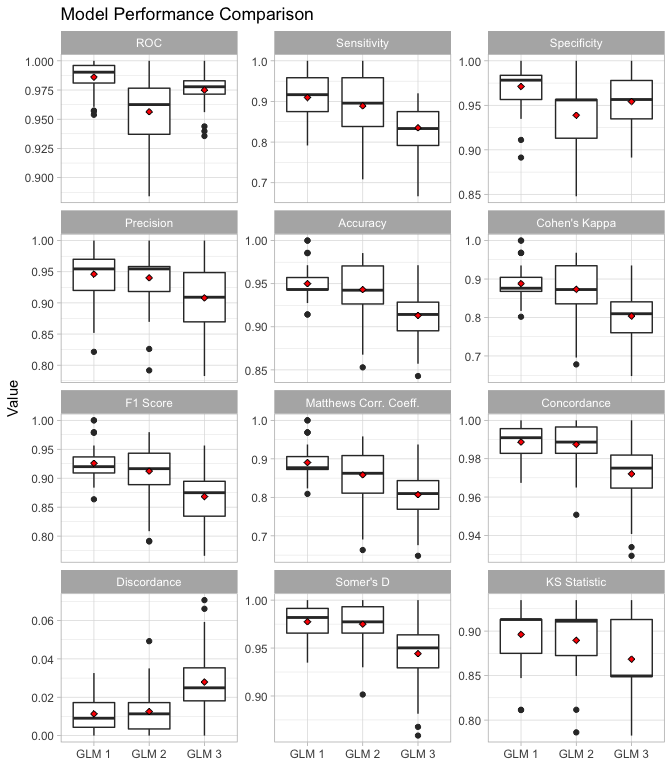
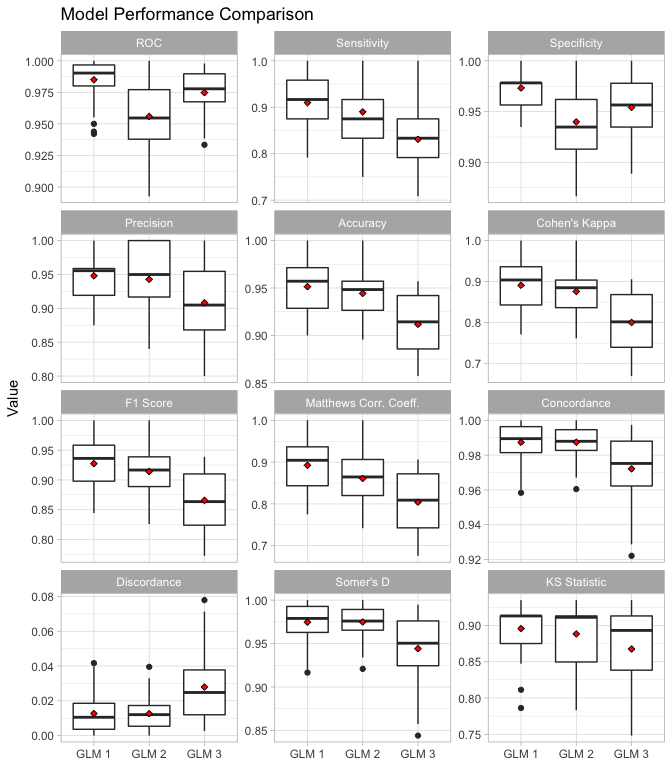
update README

diff --git a/README.md b/README.md
@@ -22,6 +22,8 @@ The two following sections demonstrate how to compute performance metrics for ca
 
 ### Binary Classification
 
+The performance metrics computed for binary classification are: ROC, Sensitivity, Specificity, Precision, Accuracy, Cohen's Kappa, F1 Score, Matthews Correlation Coefficient, Concordance, Discordance, Somer's D, and KS Statistic.
+
 ``` r
 library(MLtoolkit)
 library(recipes)
@@ -60,25 +62,25 @@ glm_fit_3 <- train(rec3, data = dat,
                    trControl = train_ctrl)
 ```
 
-The compute\_mod\_results() function works with a single caret model object and computes its performance results:
+The compute\_mod\_results() function works with a single caret model object and computes its performance metrics:
 
 ``` r
 compute_mod_results(glm_fit_1, "GLM 1") %>% head()
 #> # A tibble: 6 x 14
 #>   Model Resample   ROC Sensitivity Specificity Precision Accuracy
 #>   <chr> <chr>    <dbl>       <dbl>       <dbl>     <dbl>    <dbl>
-#> 1 GLM 1 Fold01.… 0.981       0.917       0.978     0.957    0.957
-#> 2 GLM 1 Fold01.… 0.996       0.875       0.978     0.955    0.943
-#> 3 GLM 1 Fold01.… 0.996       0.917       1         1        0.971
-#> 4 GLM 1 Fold01.… 1           1           1         1        1    
-#> 5 GLM 1 Fold02.… 1           0.792       1         1        0.928
-#> 6 GLM 1 Fold02.… 0.983       0.958       0.935     0.885    0.943
+#> 1 GLM 1 Fold01.… 0.998       0.917       1         1        0.971
+#> 2 GLM 1 Fold01.… 0.985       0.958       0.978     0.958    0.971
+#> 3 GLM 1 Fold01.… 0.955       0.875       0.935     0.875    0.914
+#> 4 GLM 1 Fold01.… 0.984       0.958       0.935     0.885    0.943
+#> 5 GLM 1 Fold02.… 0.989       0.917       0.956     0.917    0.942
+#> 6 GLM 1 Fold02.… 0.999       0.958       1         1        0.986
 #> # ... with 7 more variables: `Cohen's Kappa` <dbl>, `F1 Score` <dbl>,
 #> #   `Matthews Corr. Coeff.` <dbl>, Concordance <dbl>, Discordance <dbl>,
 #> #   `Somer's D` <dbl>, `KS Statistic` <dbl>
 ```
 
-The all\_mod\_results() function works with multiple caret model objects and computes their model performance results:
+The all\_mod\_results() function works with multiple caret model objects and computes their model performance metrics:
 
 ``` r
 mod_results <- all_mod_results(list(glm_fit_1, glm_fit_2, glm_fit_3), c("GLM 1", "GLM 2", "GLM 3"))
@@ -86,18 +88,18 @@ mod_results %>% head()
 #> # A tibble: 6 x 14
 #>   Model Resample   ROC Sensitivity Specificity Precision Accuracy
 #>   <chr> <chr>    <dbl>       <dbl>       <dbl>     <dbl>    <dbl>
-#> 1 GLM 1 Fold01.… 0.981       0.917       0.978     0.957    0.957
-#> 2 GLM 1 Fold01.… 0.996       0.875       0.978     0.955    0.943
-#> 3 GLM 1 Fold01.… 0.996       0.917       1         1        0.971
-#> 4 GLM 1 Fold01.… 1           1           1         1        1    
-#> 5 GLM 1 Fold02.… 1           0.792       1         1        0.928
-#> 6 GLM 1 Fold02.… 0.983       0.958       0.935     0.885    0.943
+#> 1 GLM 1 Fold01.… 0.998       0.917       1         1        0.971
+#> 2 GLM 1 Fold01.… 0.985       0.958       0.978     0.958    0.971
+#> 3 GLM 1 Fold01.… 0.955       0.875       0.935     0.875    0.914
+#> 4 GLM 1 Fold01.… 0.984       0.958       0.935     0.885    0.943
+#> 5 GLM 1 Fold02.… 0.989       0.917       0.956     0.917    0.942
+#> 6 GLM 1 Fold02.… 0.999       0.958       1         1        0.986
 #> # ... with 7 more variables: `Cohen's Kappa` <dbl>, `F1 Score` <dbl>,
 #> #   `Matthews Corr. Coeff.` <dbl>, Concordance <dbl>, Discordance <dbl>,
 #> #   `Somer's D` <dbl>, `KS Statistic` <dbl>
 ```
 
-The plot\_mod\_results() function produces a box plot of the models performance results:
+The plot\_mod\_results() function produces a box plot of the models performance metrics:
 
 ``` r
 plot_mod_results(mod_results, plot_columns = 3)
@@ -112,6 +114,8 @@ The plot\_mod\_results() function can alternatively take a list of caret model o
 ```
 
 ### Regression
+
+The performance metrics computed for regression are: Root Mean Squared Error (RMSE), RSquared, Mean Absolute Error (MAE), and Mean Absolute Percentage Error (MAPE).
 
 ``` r
 train_ctrl <- trainControl(method = "repeatedcv",
@@ -132,38 +136,38 @@ lm_fit_3 <- train(Sepal.Length ~ Sepal.Width + Petal.Length + Petal.Width, data 
                   trControl = train_ctrl)
 ```
 
-The compute\_mod\_results() function works with a single caret model object and computes its performance results:
+The compute\_mod\_results() function works with a single caret model object and computes its performance metrics:
 
 ``` r
 compute_mod_results(lm_fit_1, "LM 1") %>% head()
 #> # A tibble: 6 x 6
-#>   Model Resample     RMSE        R2   MAE  MAPE
-#>   <chr> <chr>       <dbl>     <dbl> <dbl> <dbl>
-#> 1 LM 1  Fold01.Rep1 0.807 0.0252    0.657 11.3 
-#> 2 LM 1  Fold01.Rep2 0.792 0.247     0.669 12.3 
-#> 3 LM 1  Fold01.Rep3 0.693 0.0000481 0.573  9.93
-#> 4 LM 1  Fold01.Rep4 0.843 0.0177    0.700 12.2 
-#> 5 LM 1  Fold02.Rep1 0.789 0.00895   0.649 10.8 
-#> 6 LM 1  Fold02.Rep2 0.809 0.220     0.625 11.0
+#>   Model Resample     RMSE      R2   MAE  MAPE
+#>   <chr> <chr>       <dbl>   <dbl> <dbl> <dbl>
+#> 1 LM 1  Fold01.Rep1 0.991 0.0292  0.793 12.9 
+#> 2 LM 1  Fold01.Rep2 0.720 0.0544  0.618 11.4 
+#> 3 LM 1  Fold01.Rep3 0.763 0.00720 0.626 11.1 
+#> 4 LM 1  Fold01.Rep4 0.889 0.105   0.754 13.9 
+#> 5 LM 1  Fold02.Rep1 0.734 0.00512 0.629 11.5 
+#> 6 LM 1  Fold02.Rep2 0.740 0.00133 0.568  9.37
 ```
 
-The all\_mod\_results() function works with multiple caret model objects and computes their model performance results:
+The all\_mod\_results() function works with multiple caret model objects and computes their model performance metrics:
 
 ``` r
 mod_results <- all_mod_results(list(lm_fit_1, lm_fit_2, lm_fit_3), c("LM 1", "LM 2", "LM 3"))
 mod_results %>% head()
 #> # A tibble: 6 x 6
-#>   Model Resample     RMSE        R2   MAE  MAPE
-#>   <chr> <chr>       <dbl>     <dbl> <dbl> <dbl>
-#> 1 LM 1  Fold01.Rep1 0.807 0.0252    0.657 11.3 
-#> 2 LM 1  Fold01.Rep2 0.792 0.247     0.669 12.3 
-#> 3 LM 1  Fold01.Rep3 0.693 0.0000481 0.573  9.93
-#> 4 LM 1  Fold01.Rep4 0.843 0.0177    0.700 12.2 
-#> 5 LM 1  Fold02.Rep1 0.789 0.00895   0.649 10.8 
-#> 6 LM 1  Fold02.Rep2 0.809 0.220     0.625 11.0
+#>   Model Resample     RMSE      R2   MAE  MAPE
+#>   <chr> <chr>       <dbl>   <dbl> <dbl> <dbl>
+#> 1 LM 1  Fold01.Rep1 0.991 0.0292  0.793 12.9 
+#> 2 LM 1  Fold01.Rep2 0.720 0.0544  0.618 11.4 
+#> 3 LM 1  Fold01.Rep3 0.763 0.00720 0.626 11.1 
+#> 4 LM 1  Fold01.Rep4 0.889 0.105   0.754 13.9 
+#> 5 LM 1  Fold02.Rep1 0.734 0.00512 0.629 11.5 
+#> 6 LM 1  Fold02.Rep2 0.740 0.00133 0.568  9.37
 ```
 
-The plot\_mod\_results() function produces a box plot of the models performance results:
+The plot\_mod\_results() function produces a box plot of the models performance metrics:
 
 ``` r
 plot_mod_results(mod_results)
